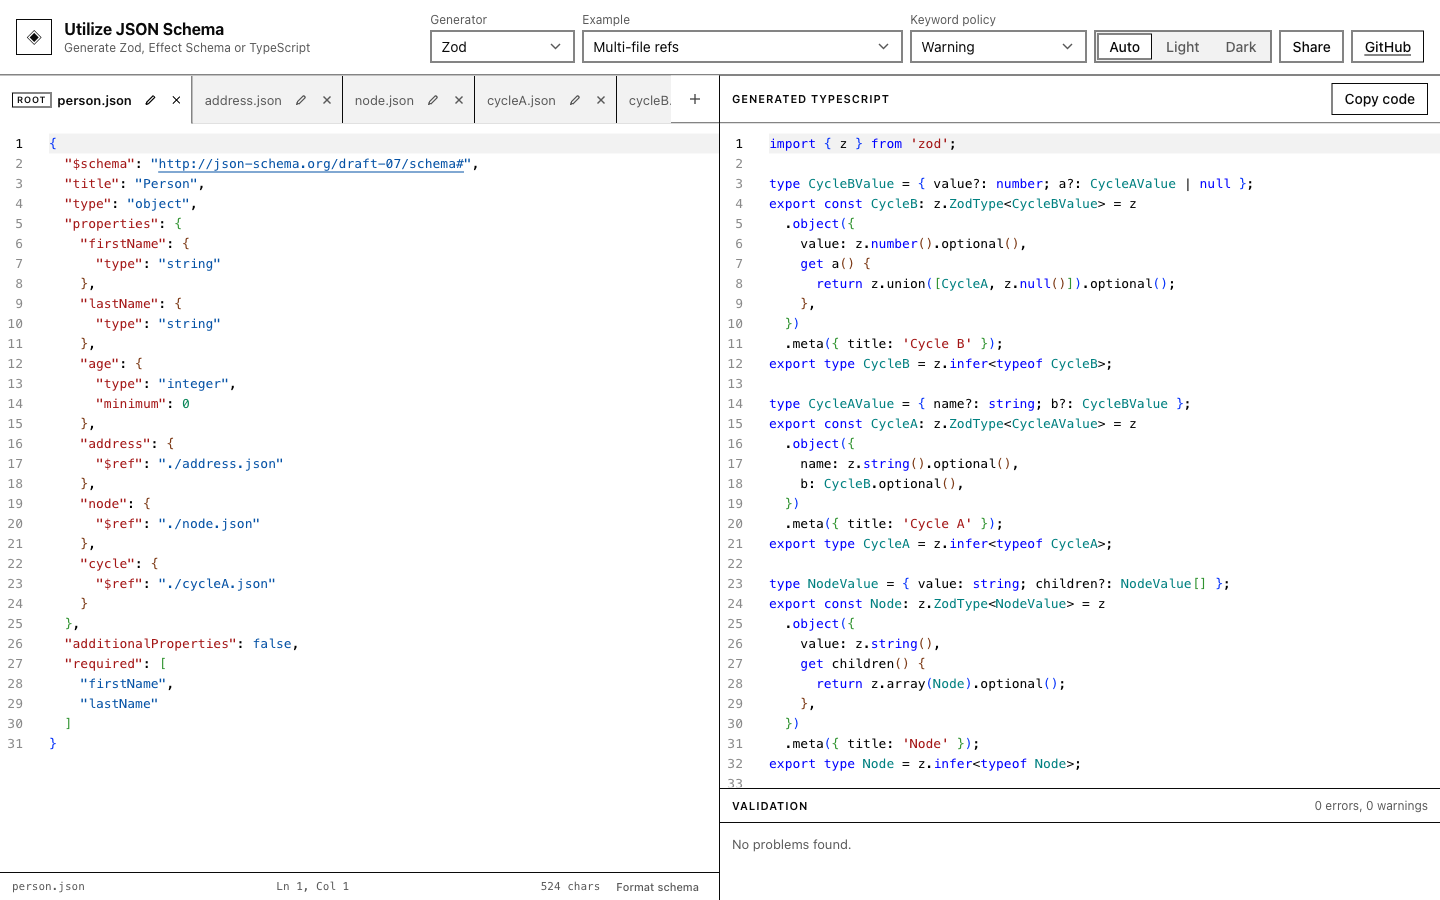
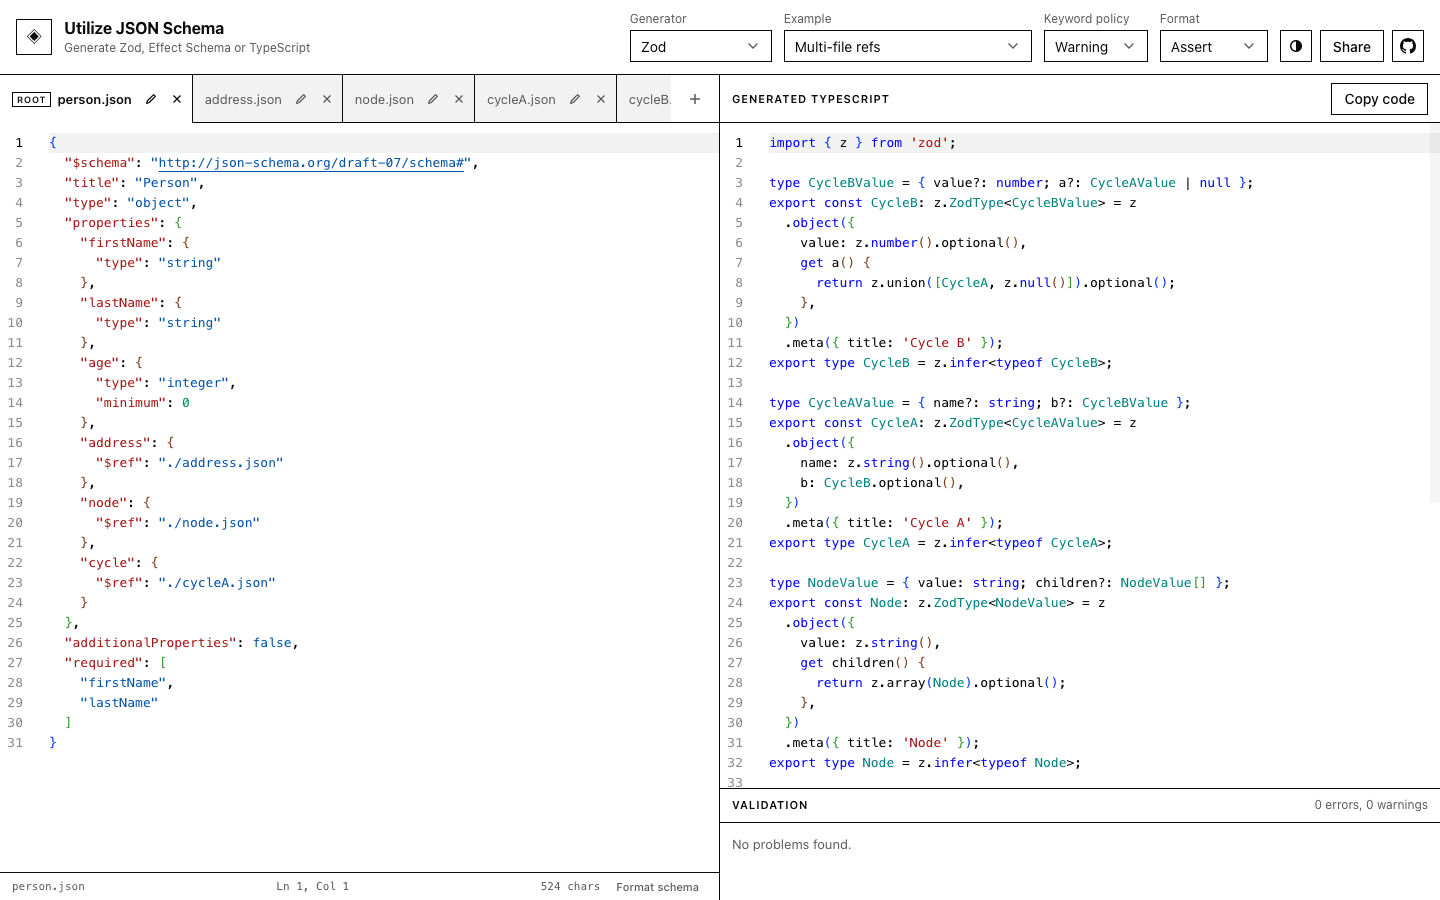
docs: refresh the playground screenshot and add a drag-and-drop demo

diff --git a/README.md b/README.md
@@ -286,6 +286,15 @@ remaining flags.
   <img src="docs/playground.png" alt="Playground with person.json split across referenced files, the generated Zod schema on the right and a validation panel below" width="100%">
 </p>
 
+<details>
+<summary>Watch the drag-and-drop demo (20 s)</summary>
+
+<p align="center">
+  <img src="docs/playground.gif" alt="Dropping person.json and address.json onto the playground, choosing the Replace target, switching to the Effect Schema generator and flipping the format mode to annotate" width="100%">
+</p>
+
+</details>
+
 The [`playground`](./playground) is a browser app for editing multiple JSON
 Schema files with references. Switch between the Zod, Effect Schema and
 TypeScript generators, change the keyword policy and the format mode, and watch
